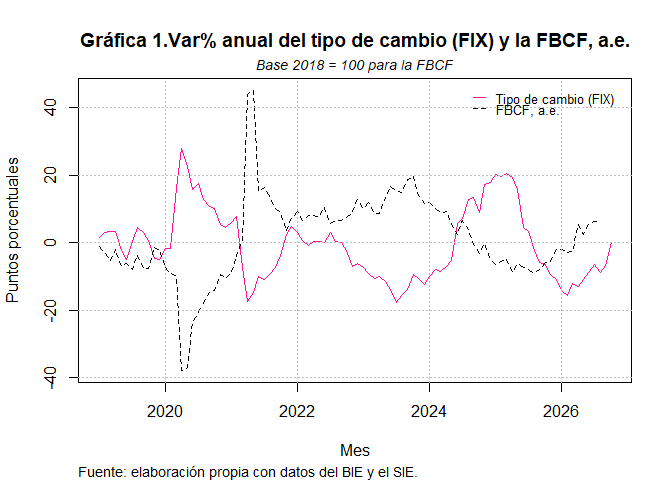
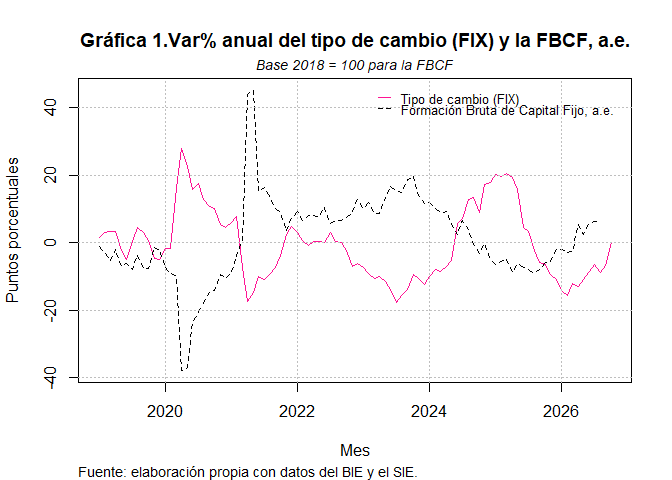
Fix README examples

Changed region(s): [[0.5938, 0.1875, 0.9375, 0.25]]

diff --git a/README.md b/README.md
@@ -42,7 +42,7 @@ lleve a cabo un registro en sus “portales de desarrolladores” para
 obtener un “Token” o clave de acceso digital, la cual viaja junto con la
 petición web para registar y validar el acceso del usuario.
 
-## Enlace del portal de desarrolladores de la API del Banco de Indicadores (BIE) o del Sistema de Información Económica (SIE).
+# Enlace del portal de desarrolladores de la API del Banco de Indicadores (BIE) o del Sistema de Información Económica (SIE).
 
 A través de estos portales, los desarrolladores o analistas que
 requieren la automatización del proceso de extracción de información
@@ -63,7 +63,7 @@ Cualquier lenguaje de programación que tenga la capacidad de conectarse
 a internet (como Python, R o incluso macros avanzadas de Excel) puede
 consumir estas herramientas enviando peticiones HTTPS de forma remota.
 
-## Acceso al Token de autenticación para realizar las peticiones de información al API del BIE o SIE.
+# Acceso al Token de autenticación para realizar las peticiones de información al API del BIE o SIE.
 
 Antes de usar seriesMX, es indispensable consultar los siguientes
 enlaces para generar los token correspondientes:
@@ -78,7 +78,7 @@ Nota: en la práctica es posible generar más de un token, su propósito
 sólo es controlar el flujo de acceso a las API’s desde los servidores de
 INEGI y Banxico.
 
-## Instalación del paquete.
+# Instalación del paquete.
 
 Puede instalar la última versión del paquete “seriesMX” desde
 [GitHub](https://github.com/):
@@ -88,13 +88,13 @@ Puede instalar la última versión del paquete “seriesMX” desde
 pak::pak("carrascofernando032/seriesMX")
 ```
 
-## Módulo de consumo e integración de las API’s de INEGI y Banxico.
+# Módulo de consumo e integración de las API’s de INEGI y Banxico.
 
 En seriesMX, las funciones denominadas “api_bie” y “api_sie” son los
 componentes del paquete que conectan y extraen información de las API’s
 de INEGI y Banxico.
 
-# ¿Qué hacen exactamente las funciones api_bie y api_sie?
+## ¿Qué hacen exactamente las funciones api_bie y api_sie?
 
 Consumen las API’s de INEGI o Banxico (por ejemplo, consultando el tipo
 de cambio) para obtener información, toman los datos que reciben y los
@@ -130,9 +130,9 @@ Token de autenticación:
 “5864e518164893a673fa467ac9e759836dbee33aecc73525d1e1f03254e43b70” -
 Formato de respuesta de la información: “&mediaType=json”
 
-## Características del resultado de api_bie y api_sie.
+# Características del resultado de api_bie y api_sie
 
-# Data frame.
+## Data frame
 
 Un data frame en R es una estructura de datos bidimensional (en forma de
 tabla con filas y columnas) que permite almacenar datos heterogéneos.Es
@@ -156,7 +156,7 @@ token = "ejemplo_tokenf1a58e29e-8796-409c-9aeb-3206889b2067",
 formato_resp = "?type=json")
 ```
 
-## Módulo para la unión y visualización de los datos a través de una variable en común: periodo de tiempo.
+# Módulo para la unión y visualización de los datos a través de una variable en común: periodo de tiempo
 
 Este módulo está diseñado para tomar los datos extraídos de las API de
 BIE (INEGI) y SIE (Banco de México) y generar visualizaciones de las
@@ -176,7 +176,7 @@ Se deben homologar las fechas al primer día de cada mes. Sin embargo,
 antes de unir los data frames es importante verificar que ambas series
 abarquen el mismo periodo de tiempo.
 
-# Familia Join de la colección Tidyverse en R.
+## Familia Join de la colección Tidyverse en R
 
 Tidyverse es una colección de paquetes de código abierto para R,
 diseñados específicamente para la ciencia de datos.
@@ -191,99 +191,32 @@ Para utilizar la función “left_join()” de Tidyverse, es necesario que
 las variables “fecha” tengan el mismo formato y, preferentemente, la
 misma clase (Date).
 
-``` r
-#Paquetería necesaria.
-library(tidyverse)
-#> Warning: package 'tidyverse' was built under R version 4.6.1
-#> Warning: package 'ggplot2' was built under R version 4.6.1
-#> Warning: package 'tibble' was built under R version 4.6.1
-#> Warning: package 'tidyr' was built under R version 4.6.1
-#> Warning: package 'readr' was built under R version 4.6.1
-#> Warning: package 'purrr' was built under R version 4.6.1
-#> Warning: package 'dplyr' was built under R version 4.6.1
-#> Warning: package 'stringr' was built under R version 4.6.1
-#> Warning: package 'forcats' was built under R version 4.6.1
-#> Warning: package 'lubridate' was built under R version 4.6.1
-#> ── Attaching core tidyverse packages ──────────────────────── tidyverse 2.0.0 ──
-#> ✔ dplyr     1.2.1     ✔ readr     2.2.0
-#> ✔ forcats   1.0.1     ✔ stringr   1.6.0
-#> ✔ ggplot2   4.0.3     ✔ tibble    3.3.1
-#> ✔ lubridate 1.9.5     ✔ tidyr     1.3.2
-#> ✔ purrr     1.2.2     
-#> ── Conflicts ────────────────────────────────────────── tidyverse_conflicts() ──
-#> ✖ dplyr::filter() masks stats::filter()
-#> ✖ dplyr::lag()    masks stats::lag()
-#> ℹ Use the conflicted package (<http://conflicted.r-lib.org/>) to force all conflicts to become errors
-library(seriesMX)
-
-#Tipo de cambio mensual, fecha de determinación (FIX).
-
-tipo_de_cambio_fix<-api_sie(url = paste0("https://www.banxico.org.mx/SieAPIRest/service/v1/series/SF17908/datos?token="),
[1 lines of base64/hex data omitted]
-formato_resp = "&mediaType=json")
-
-#Variación porcentual anual de la serie desestacionalizada de la Formación Bruta de Capital Fijo (TOTAL).
-
-formacion_bcf<-api_bie(url = paste0("https://www.inegi.org.mx/app/api/indicadores/desarrolladores/jsonxml/INDICATOR/741104/es/00/false/BIE-BISE/2.0/"),
-token = "c1a58e29e-8796-409c-9aeb-3206889b2005",
-formato_resp = "?type=json")
-
-#Homologación de las fechas.
-
-tipo_de_cambio_fix <- tipo_de_cambio_fix%>%
-  mutate(fecha = as.Date(fecha))%>%
-  filter(fecha >= "1994-01-01")
-
-formacion_bcf<- formacion_bcf%>%
-  mutate(fecha = as.Date(paste0(
-    gsub("/", "-", fecha), "-01")))
-
-#Unión de los datos a través de una variable en común por medio de la función left_join()
-
-fix_fbcf<- tipo_de_cambio_fix%>%
-  left_join(formacion_bcf, by = "fecha")%>%
-  rename(fix=observacion.x, fbcf=observacion.y)%>%
-  select(fecha, fix, fbcf)%>%
-  filter(fecha >= as.Date("2018-01-01"))
-
-#Para ver las primeras 6 observaciones del data frame.
-head(fix_fbcf)
-#>        fecha     fix       fbcf
-#> 1 2018-01-01 18.9074 -0.4555279
-#> 2 2018-02-01 18.6449  2.1005742
-#> 3 2018-03-01 18.6308  1.6259466
-#> 4 2018-04-01 18.3872  2.9199767
-#> 5 2018-05-01 19.5910  2.6252223
-#> 6 2018-06-01 20.3032  1.4187628
-
-#Para calcular la variación porcentual anual del tipo de cambio FIX, agregarla al data frame y visualizarlo junto con la serie FBCF en una gráfica de series de tiempo:
-
-ts.plot((serie_ts<- ts(data = (fix_fbcf%>%
-                                 mutate(var_anual_FIX = (((fix /lag(fix, n = 12))-1)*100))%>%
-                                 filter(fecha >= as.Date("2019-01-01"))%>%
-                                 select(var_anual_FIX, fbcf)), frequency = 12, 
-                       start = c(2019, 1))),
-        main = "Gráfica 1.Var% anual del tipo de cambio (FIX) y la FBCF, a.e.",
-  xlab = "Mes",
-  ylab = "Puntos porcentuales", 
-  col = c("#FF1493", "black"),
-  lty = c(1, 2))
-
-grid(col = "grey", lty = "dotted")
-
-legend("topright",legend=c("Tipo de cambio (FIX)","FBCF, a.e."),
-                          col=c("#FF1493", "black"),
-       lty = c(1, 2),
-       seg.len = 1,
-       cex = 0.8,
-       xpd = TRUE,
-       inset = c(0.02, 0.02),
-       bty = "n",
-       y.intersp = 0.7)
-
-mtext("Fuente: elaboración propia con datos del BIE y el SIE.", 
-      side=1, line=4.1, adj=0, cex=0.85)
-mtext("Base 2018 = 100 para la FBCF", side=3, line=0.3, cex=0.89, font=3, col="black")
-```
+    #> Warning: package 'tidyverse' was built under R version 4.6.1
+    #> Warning: package 'ggplot2' was built under R version 4.6.1
+    #> Warning: package 'tibble' was built under R version 4.6.1
+    #> Warning: package 'tidyr' was built under R version 4.6.1
+    #> Warning: package 'readr' was built under R version 4.6.1
+    #> Warning: package 'purrr' was built under R version 4.6.1
+    #> Warning: package 'dplyr' was built under R version 4.6.1
+    #> Warning: package 'stringr' was built under R version 4.6.1
+    #> Warning: package 'forcats' was built under R version 4.6.1
+    #> Warning: package 'lubridate' was built under R version 4.6.1
+    #> ── Attaching core tidyverse packages ──────────────────────── tidyverse 2.0.0 ──
+    #> ✔ dplyr     1.2.1     ✔ readr     2.2.0
+    #> ✔ forcats   1.0.1     ✔ stringr   1.6.0
+    #> ✔ ggplot2   4.0.3     ✔ tibble    3.3.1
+    #> ✔ lubridate 1.9.5     ✔ tidyr     1.3.2
+    #> ✔ purrr     1.2.2     
+    #> ── Conflicts ────────────────────────────────────────── tidyverse_conflicts() ──
+    #> ✖ dplyr::filter() masks stats::filter()
+    #> ✖ dplyr::lag()    masks stats::lag()
+    #> ℹ Use the conflicted package (<http://conflicted.r-lib.org/>) to force all conflicts to become errors
+    #>        fecha     fix       fbcf
+    #> 1 2018-01-01 18.9074 -0.4555279
+    #> 2 2018-02-01 18.6449  2.1005742
+    #> 3 2018-03-01 18.6308  1.6259466
+    #> 4 2018-04-01 18.3872  2.9199767
+    #> 5 2018-05-01 19.5910  2.6252223
+    #> 6 2018-06-01 20.3032  1.4187628
 
 <img src="man/figures/README-ejemplo-integracion-series-1.png" alt="" width="100%" />
